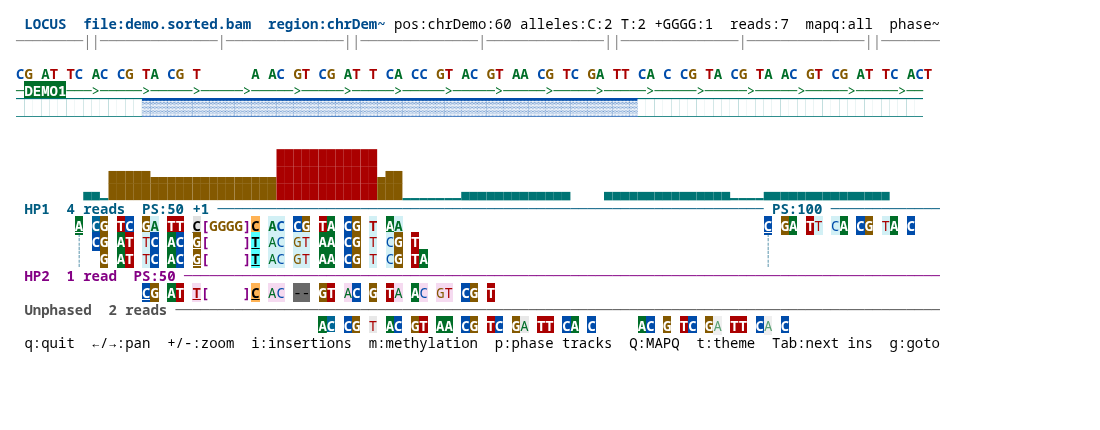
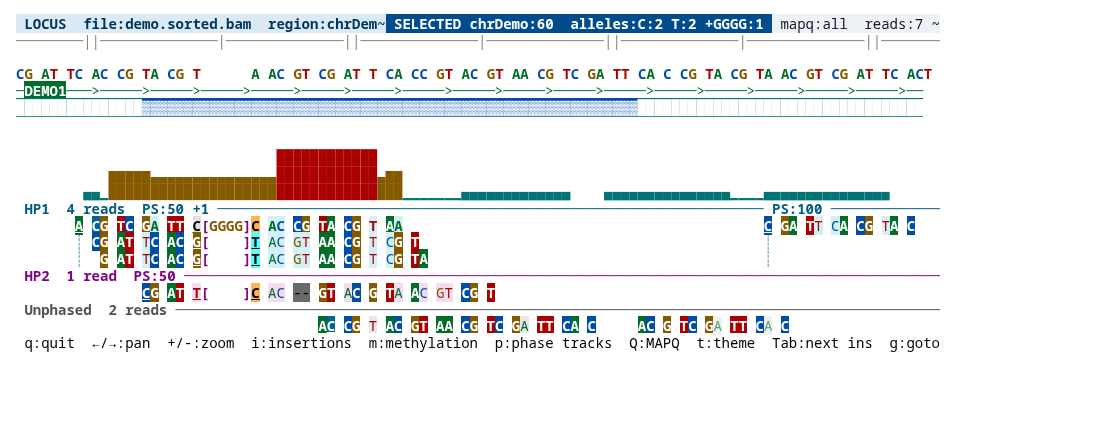
Improve top bar contrast

Changed region(s): [[0.0, 0.0302, 0.8655, 0.0907]]

diff --git a/docs/captures/demo-dark-expanded-methylation.html b/docs/captures/demo-dark-expanded-methylation.html
@@ -8,7 +8,7 @@
 </head>
 <body>
 <pre>
-<span style="color:#008080;background-color:#808080;font-weight:700"> LOCUS  file:demo.sorted.bam  region:chrDem~</span><span style="color:#ffffff;background-color:#808080"> pos:chrDemo:60 alleles:C:2 T:2 +GGGG:1  reads:7  mapq:all  phase~</span>
+<span style="color:#ffffff;background-color:#004452;font-weight:700"> LOCUS  file:demo.sorted.bam  region:chrDem~</span><span style="color:#000000;background-color:#008080;font-weight:700"> SELECTED chrDemo:60  alleles:C:2 T:2 +GGGG:1 </span><span style="color:#ffffff;background-color:#000000"> mapq:all  reads:7 ~</span>
 <span style="color:#808080">────────||──────────────|──────────────||──────────────|──────────────||──────────────|──────────────||───────</span>
         <span style="color:#ffffff">50</span><span style="">              </span><span style="color:#ffffff">60</span><span style="">             </span><span style="color:#ffffff">70</span><span style="">              </span><span style="color:#ffffff">80</span><span style="">             </span><span style="color:#ffffff">90</span><span style="">              </span><span style="color:#ffffff">100</span><span style="">            </span><span style="color:#ffffff">110</span>
 <span style="color:#000080;font-weight:700">C</span><span style="color:#808000;font-weight:700">G</span><span style=""> </span><span style="color:#008000;font-weight:700">A</span><span style="color:#800000;font-weight:700">T</span><span style=""> </span><span style="color:#800000;font-weight:700">T</span><span style="color:#000080;font-weight:700">C</span><span style=""> </span><span style="color:#008000;font-weight:700">A</span><span style="color:#000080;font-weight:700">C</span><span style=""> </span><span style="color:#000080;font-weight:700">C</span><span style="color:#808000;font-weight:700">G</span><span style=""> </span><span style="color:#800000;font-weight:700">T</span><span style="color:#008000;font-weight:700">A</span><span style=""> </span><span style="color:#000080;font-weight:700">C</span><span style="color:#808000;font-weight:700">G</span><span style=""> </span><span style="color:#800000;font-weight:700">T</span><span style="">      </span><span style="color:#008000;font-weight:700">A</span><span style=""> </span><span style="color:#008000;font-weight:700">A</span><span style="color:#000080;font-weight:700">C</span><span style=""> </span><span style="color:#808000;font-weight:700">G</span><span style="color:#800000;font-weight:700">T</span><span style=""> </span><span style="color:#000080;font-weight:700">C</span><span style="color:#808000;font-weight:700">G</span><span style=""> </span><span style="color:#008000;font-weight:700">A</span><span style="color:#800000;font-weight:700">T</span><span style=""> </span><span style="color:#800000;font-weight:700">T</span><span style=""> </span><span style="color:#000080;font-weight:700">C</span><span style="color:#008000;font-weight:700">A</span><span style=""> </span><span style="color:#000080;font-weight:700">CC</span><span style=""> </span><span style="color:#808000;font-weight:700">G</span><span style="color:#800000;font-weight:700">T</span><span style=""> </span><span style="color:#008000;font-weight:700">A</span><span style="color:#000080;font-weight:700">C</span><span style=""> </span><span style="color:#808000;font-weight:700">G</span><span style="color:#800000;font-weight:700">T</span><span style=""> </span><span style="color:#008000;font-weight:700">AA</span><span style=""> </span><span style="color:#000080;font-weight:700">C</span><span style="color:#808000;font-weight:700">G</span><span style=""> </span><span style="color:#800000;font-weight:700">T</span><span style="color:#000080;font-weight:700">C</span><span style=""> </span><span style="color:#808000;font-weight:700">G</span><span style="color:#008000;font-weight:700">A</span><span style=""> </span><span style="color:#800000;font-weight:700">TT</span><span style=""> </span><span style="color:#000080;font-weight:700">C</span><span style="color:#008000;font-weight:700">A</span><span style=""> </span><span style="color:#000080;font-weight:700">C</span><span style=""> </span><span style="color:#000080;font-weight:700">C</span><span style="color:#808000;font-weight:700">G</span><span style=""> </span><span style="color:#800000;font-weight:700">T</span><span style="color:#008000;font-weight:700">A</span><span style=""> </span><span style="color:#000080;font-weight:700">C</span><span style="color:#808000;font-weight:700">G</span><span style=""> </span><span style="color:#800000;font-weight:700">T</span><span style="color:#008000;font-weight:700">A</span><span style=""> </span><span style="color:#008000;font-weight:700">A</span><span style="color:#000080;font-weight:700">C</span><span style=""> </span><span style="color:#808000;font-weight:700">G</span><span style="color:#800000;font-weight:700">T</span><span style=""> </span><span style="color:#000080;font-weight:700">C</span><span style="color:#808000;font-weight:700">G</span><span style=""> </span><span style="color:#008000;font-weight:700">A</span><span style="color:#800000;font-weight:700">T</span><span style=""> </span><span style="color:#800000;font-weight:700">T</span><span style="color:#000080;font-weight:700">C</span><span style=""> </span><span style="color:#008000;font-weight:700">A</span><span style="color:#000080;font-weight:700">C</span><span style="color:#800000;font-weight:700">T</span>

diff --git a/docs/captures/demo-expanded-methylation.html b/docs/captures/demo-expanded-methylation.html
@@ -8,7 +8,7 @@
 </head>
 <body>
 <pre>
-<span style="color:#008080;background-color:#808080;font-weight:700"> LOCUS  file:demo.sorted.bam  region:chrDem~</span><span style="color:#ffffff;background-color:#808080"> pos:chrDemo:60 alleles:C:2 T:2 +GGGG:1  reads:7  mapq:all  phase~</span>
+<span style="color:#ffffff;background-color:#004452;font-weight:700"> LOCUS  file:demo.sorted.bam  region:chrDem~</span><span style="color:#000000;background-color:#008080;font-weight:700"> SELECTED chrDemo:60  alleles:C:2 T:2 +GGGG:1 </span><span style="color:#ffffff;background-color:#000000"> mapq:all  reads:7 ~</span>
 <span style="color:#808080">────────||──────────────|──────────────||──────────────|──────────────||──────────────|──────────────||───────</span>
         <span style="color:#ffffff">50</span><span style="">              </span><span style="color:#ffffff">60</span><span style="">             </span><span style="color:#ffffff">70</span><span style="">              </span><span style="color:#ffffff">80</span><span style="">             </span><span style="color:#ffffff">90</span><span style="">              </span><span style="color:#ffffff">100</span><span style="">            </span><span style="color:#ffffff">110</span>
 <span style="color:#000080;font-weight:700">C</span><span style="color:#808000;font-weight:700">G</span><span style=""> </span><span style="color:#008000;font-weight:700">A</span><span style="color:#800000;font-weight:700">T</span><span style=""> </span><span style="color:#800000;font-weight:700">T</span><span style="color:#000080;font-weight:700">C</span><span style=""> </span><span style="color:#008000;font-weight:700">A</span><span style="color:#000080;font-weight:700">C</span><span style=""> </span><span style="color:#000080;font-weight:700">C</span><span style="color:#808000;font-weight:700">G</span><span style=""> </span><span style="color:#800000;font-weight:700">T</span><span style="color:#008000;font-weight:700">A</span><span style=""> </span><span style="color:#000080;font-weight:700">C</span><span style="color:#808000;font-weight:700">G</span><span style=""> </span><span style="color:#800000;font-weight:700">T</span><span style="">      </span><span style="color:#008000;font-weight:700">A</span><span style=""> </span><span style="color:#008000;font-weight:700">A</span><span style="color:#000080;font-weight:700">C</span><span style=""> </span><span style="color:#808000;font-weight:700">G</span><span style="color:#800000;font-weight:700">T</span><span style=""> </span><span style="color:#000080;font-weight:700">C</span><span style="color:#808000;font-weight:700">G</span><span style=""> </span><span style="color:#008000;font-weight:700">A</span><span style="color:#800000;font-weight:700">T</span><span style=""> </span><span style="color:#800000;font-weight:700">T</span><span style=""> </span><span style="color:#000080;font-weight:700">C</span><span style="color:#008000;font-weight:700">A</span><span style=""> </span><span style="color:#000080;font-weight:700">CC</span><span style=""> </span><span style="color:#808000;font-weight:700">G</span><span style="color:#800000;font-weight:700">T</span><span style=""> </span><span style="color:#008000;font-weight:700">A</span><span style="color:#000080;font-weight:700">C</span><span style=""> </span><span style="color:#808000;font-weight:700">G</span><span style="color:#800000;font-weight:700">T</span><span style=""> </span><span style="color:#008000;font-weight:700">AA</span><span style=""> </span><span style="color:#000080;font-weight:700">C</span><span style="color:#808000;font-weight:700">G</span><span style=""> </span><span style="color:#800000;font-weight:700">T</span><span style="color:#000080;font-weight:700">C</span><span style=""> </span><span style="color:#808000;font-weight:700">G</span><span style="color:#008000;font-weight:700">A</span><span style=""> </span><span style="color:#800000;font-weight:700">TT</span><span style=""> </span><span style="color:#000080;font-weight:700">C</span><span style="color:#008000;font-weight:700">A</span><span style=""> </span><span style="color:#000080;font-weight:700">C</span><span style=""> </span><span style="color:#000080;font-weight:700">C</span><span style="color:#808000;font-weight:700">G</span><span style=""> </span><span style="color:#800000;font-weight:700">T</span><span style="color:#008000;font-weight:700">A</span><span style=""> </span><span style="color:#000080;font-weight:700">C</span><span style="color:#808000;font-weight:700">G</span><span style=""> </span><span style="color:#800000;font-weight:700">T</span><span style="color:#008000;font-weight:700">A</span><span style=""> </span><span style="color:#008000;font-weight:700">A</span><span style="color:#000080;font-weight:700">C</span><span style=""> </span><span style="color:#808000;font-weight:700">G</span><span style="color:#800000;font-weight:700">T</span><span style=""> </span><span style="color:#000080;font-weight:700">C</span><span style="color:#808000;font-weight:700">G</span><span style=""> </span><span style="color:#008000;font-weight:700">A</span><span style="color:#800000;font-weight:700">T</span><span style=""> </span><span style="color:#800000;font-weight:700">T</span><span style="color:#000080;font-weight:700">C</span><span style=""> </span><span style="color:#008000;font-weight:700">A</span><span style="color:#000080;font-weight:700">C</span><span style="color:#800000;font-weight:700">T</span>

diff --git a/docs/captures/demo-light-expanded-methylation.html b/docs/captures/demo-light-expanded-methylation.html
@@ -8,7 +8,7 @@
 </head>
 <body>
 <pre>
-<span style="color:#004c8c;background-color:#ffffff;font-weight:700"> LOCUS  file:demo.sorted.bam  region:chrDem~</span><span style="color:#000000;background-color:#ffffff"> pos:chrDemo:60 alleles:C:2 T:2 +GGGG:1  reads:7  mapq:all  phase~</span>
+<span style="color:#00365e;background-color:#dceaf6;font-weight:700"> LOCUS  file:demo.sorted.bam  region:chrDem~</span><span style="color:#ffffff;background-color:#004c8c;font-weight:700"> SELECTED chrDemo:60  alleles:C:2 T:2 +GGGG:1 </span><span style="color:#111827;background-color:#eef2f6"> mapq:all  reads:7 ~</span>
 <span style="color:#808080">────────||──────────────|──────────────||──────────────|──────────────||──────────────|──────────────||───────</span>
         <span style="color:#ffffff">50</span><span style="">              </span><span style="color:#ffffff">60</span><span style="">             </span><span style="color:#ffffff">70</span><span style="">              </span><span style="color:#ffffff">80</span><span style="">             </span><span style="color:#ffffff">90</span><span style="">              </span><span style="color:#ffffff">100</span><span style="">            </span><span style="color:#ffffff">110</span>
 <span style="color:#004caa;font-weight:700">C</span><span style="color:#845900;font-weight:700">G</span><span style=""> </span><span style="color:#006e28;font-weight:700">A</span><span style="color:#aa0000;font-weight:700">T</span><span style=""> </span><span style="color:#aa0000;font-weight:700">T</span><span style="color:#004caa;font-weight:700">C</span><span style=""> </span><span style="color:#006e28;font-weight:700">A</span><span style="color:#004caa;font-weight:700">C</span><span style=""> </span><span style="color:#004caa;font-weight:700">C</span><span style="color:#845900;font-weight:700">G</span><span style=""> </span><span style="color:#aa0000;font-weight:700">T</span><span style="color:#006e28;font-weight:700">A</span><span style=""> </span><span style="color:#004caa;font-weight:700">C</span><span style="color:#845900;font-weight:700">G</span><span style=""> </span><span style="color:#aa0000;font-weight:700">T</span><span style="">      </span><span style="color:#006e28;font-weight:700">A</span><span style=""> </span><span style="color:#006e28;font-weight:700">A</span><span style="color:#004caa;font-weight:700">C</span><span style=""> </span><span style="color:#845900;font-weight:700">G</span><span style="color:#aa0000;font-weight:700">T</span><span style=""> </span><span style="color:#004caa;font-weight:700">C</span><span style="color:#845900;font-weight:700">G</span><span style=""> </span><span style="color:#006e28;font-weight:700">A</span><span style="color:#aa0000;font-weight:700">T</span><span style=""> </span><span style="color:#aa0000;font-weight:700">T</span><span style=""> </span><span style="color:#004caa;font-weight:700">C</span><span style="color:#006e28;font-weight:700">A</span><span style=""> </span><span style="color:#004caa;font-weight:700">CC</span><span style=""> </span><span style="color:#845900;font-weight:700">G</span><span style="color:#aa0000;font-weight:700">T</span><span style=""> </span><span style="color:#006e28;font-weight:700">A</span><span style="color:#004caa;font-weight:700">C</span><span style=""> </span><span style="color:#845900;font-weight:700">G</span><span style="color:#aa0000;font-weight:700">T</span><span style=""> </span><span style="color:#006e28;font-weight:700">AA</span><span style=""> </span><span style="color:#004caa;font-weight:700">C</span><span style="color:#845900;font-weight:700">G</span><span style=""> </span><span style="color:#aa0000;font-weight:700">T</span><span style="color:#004caa;font-weight:700">C</span><span style=""> </span><span style="color:#845900;font-weight:700">G</span><span style="color:#006e28;font-weight:700">A</span><span style=""> </span><span style="color:#aa0000;font-weight:700">TT</span><span style=""> </span><span style="color:#004caa;font-weight:700">C</span><span style="color:#006e28;font-weight:700">A</span><span style=""> </span><span style="color:#004caa;font-weight:700">C</span><span style=""> </span><span style="color:#004caa;font-weight:700">C</span><span style="color:#845900;font-weight:700">G</span><span style=""> </span><span style="color:#aa0000;font-weight:700">T</span><span style="color:#006e28;font-weight:700">A</span><span style=""> </span><span style="color:#004caa;font-weight:700">C</span><span style="color:#845900;font-weight:700">G</span><span style=""> </span><span style="color:#aa0000;font-weight:700">T</span><span style="color:#006e28;font-weight:700">A</span><span style=""> </span><span style="color:#006e28;font-weight:700">A</span><span style="color:#004caa;font-weight:700">C</span><span style=""> </span><span style="color:#845900;font-weight:700">G</span><span style="color:#aa0000;font-weight:700">T</span><span style=""> </span><span style="color:#004caa;font-weight:700">C</span><span style="color:#845900;font-weight:700">G</span><span style=""> </span><span style="color:#006e28;font-weight:700">A</span><span style="color:#aa0000;font-weight:700">T</span><span style=""> </span><span style="color:#aa0000;font-weight:700">T</span><span style="color:#004caa;font-weight:700">C</span><span style=""> </span><span style="color:#006e28;font-weight:700">A</span><span style="color:#004caa;font-weight:700">C</span><span style="color:#aa0000;font-weight:700">T</span>

diff --git a/src/ui.rs b/src/ui.rs
@@ -124,20 +124,19 @@ fn draw_top_bar(frame: &mut Frame, app: &App, area: Rect) {
     let phasing_mode = phasing_mode_label(app.show_phasing);
     let theme_mode = theme_mode_label(app.theme);
     let mapq_filter = mapq_filter_label(app.min_mapq);
-    let selected_position = selected_position_label(app.current_contig(), app.selected_ref_pos)
-        .map(|position| {
+    let selected_info =
+        selected_position_label(app.current_contig(), app.selected_ref_pos).map(|position| {
             let tally = app
                 .selected_allele_tally
                 .as_ref()
                 .map(selected_allele_tally_label)
                 .unwrap_or_else(|| "alleles:none".to_string());
-            format!(" pos:{position} {tally}")
-        })
-        .unwrap_or_default();
+            format!(" SELECTED {position}  {tally} ")
+        });
     let metrics = format!(
-        "{selected_position}  reads:{}  {}  {}  scale:{:.1} bp/col  {}  {}  {} ",
-        read_count,
+        " {}  reads:{}  {}  scale:{:.1} bp/col  {}  {}  {} ",
         mapq_filter,
+        read_count,
         phasing_mode,
         bp_per_col,
         insertion_mode,
@@ -145,21 +144,43 @@ fn draw_top_bar(frame: &mut Frame, app: &App, area: Rect) {
         theme_mode
     );
     let status = app.status_msg.as_ref().map(|msg| format!(" status:{msg} "));
-    let (identity, metrics, status) = fit_top_bar(&identity, &metrics, status.as_deref(), width);
+    let (identity, selected_info, metrics, status) = fit_top_bar(
+        &identity,
+        selected_info.as_deref(),
+        &metrics,
+        status.as_deref(),
+        width,
+    );
 
-    let used = identity.len() + metrics.len() + status.as_ref().map_or(0, |s| s.len());
+    let used = identity.len()
+        + selected_info.as_ref().map_or(0, String::len)
+        + metrics.len()
+        + status.as_ref().map_or(0, String::len);
     let pad_len = width.saturating_sub(used);
 
-    let mut spans = vec![
-        Span::styled(
-            identity,
+    let mut spans = vec![Span::styled(
+        identity,
+        Style::default()
+            .fg(app.theme.top_bar_identity_fg())
+            .bg(app.theme.top_bar_identity_bg())
+            .add_modifier(Modifier::BOLD),
+    )];
+
+    if let Some(selected_info) = selected_info {
+        spans.push(Span::styled(
+            selected_info,
             Style::default()
-                .fg(app.theme.brand_fg())
+                .fg(app.theme.selected_info_fg())
+                .bg(app.theme.selected_info_bg())
                 .add_modifier(Modifier::BOLD),
-        ),
-        Span::raw(" ".repeat(pad_len)),
-        Span::styled(metrics, Style::default().fg(app.theme.chrome_fg())),
-    ];
+        ));
+    }
+
+    spans.push(Span::raw(" ".repeat(pad_len)));
+    spans.push(Span::styled(
+        metrics,
+        Style::default().fg(app.theme.top_bar_fg()),
+    ));
 
     if let Some(status) = status {
         spans.push(Span::styled(
@@ -169,7 +190,7 @@ fn draw_top_bar(frame: &mut Frame, app: &App, area: Rect) {
     }
 
     frame.render_widget(
-        Paragraph::new(Line::from(spans)).style(Style::default().bg(app.theme.chrome_bg())),
+        Paragraph::new(Line::from(spans)).style(Style::default().bg(app.theme.top_bar_bg())),
         area,
     );
 }
@@ -256,23 +277,40 @@ fn truncate_to_width(text: &str, width: usize) -> String {
 
 fn fit_top_bar(
     identity: &str,
+    selected_info: Option<&str>,
     metrics: &str,
     status: Option<&str>,
     width: usize,
-) -> (String, String, Option<String>) {
+) -> (String, Option<String>, String, Option<String>) {
     if width == 0 {
-        return (String::new(), String::new(), status.map(|_| String::new()));
+        return (
+            String::new(),
+            selected_info.map(|_| String::new()),
+            String::new(),
+            status.map(|_| String::new()),
+        );
     }
 
     let identity_budget = if width < 40 { width / 2 } else { width * 2 / 5 };
     let identity = truncate_to_width(identity, identity_budget.max(1).min(width));
     let remaining = width.saturating_sub(identity.len());
+
+    if let Some(selected_info) = selected_info {
+        let metrics_reserve = (remaining / 5).min(metrics.len());
+        let selected_info = truncate_to_width(selected_info, remaining - metrics_reserve);
+        let metrics = truncate_to_width(
+            metrics,
+            width.saturating_sub(identity.len() + selected_info.len()),
+        );
+        return (identity, Some(selected_info), metrics, None);
+    }
+
     let status_reserve = status.map_or(0, |text| (remaining / 4).min(text.len()));
     let metrics = truncate_to_width(metrics, remaining.saturating_sub(status_reserve));
     let status = status
         .map(|text| truncate_to_width(text, width.saturating_sub(identity.len() + metrics.len())));
 
-    (identity, metrics, status)
+    (identity, None, metrics, status)
 }
 
 fn format_region_display(app: &App) -> String {
@@ -1018,13 +1056,38 @@ mod tests {
         let metrics = " reads:3  mapq>=30  phase:tracks  scale:2.0 bp/col  ins:collapsed  meth:off  theme:dark ";
         let status = " status:minimum MAPQ set to 30 ";
 
-        let (identity, metrics, status) = fit_top_bar(identity, metrics, Some(status), 80);
+        let (identity, selected_info, metrics, status) =
+            fit_top_bar(identity, None, metrics, Some(status), 80);
         let status = status.expect("status remains present");
 
         assert!(identity.starts_with(" LOCUS"));
+        assert!(selected_info.is_none());
         assert!(metrics.contains("mapq>=30"));
         assert!(metrics.contains("phase:tracks"));
         assert!(identity.len() + metrics.len() + status.len() <= 80);
+    }
+
+    #[test]
+    fn top_bar_prioritizes_selected_information_and_mapq() {
+        let identity = " LOCUS  file:demo.sorted.bam  region:chrDemo:45-115 ";
+        let selected_info = " SELECTED chrDemo:60  alleles:C:2 T:2 +GGGG:1 ";
+        let metrics = " mapq:all  reads:7  phase:tracks  scale:0.7 bp/col ";
+
+        let (identity, selected_info, metrics, status) = fit_top_bar(
+            identity,
+            Some(selected_info),
+            metrics,
+            Some(" status:ignored "),
+            110,
+        );
+        let selected_info = selected_info.expect("selection remains visible");
+
+        assert!(identity.starts_with(" LOCUS"));
+        assert!(selected_info.contains("SELECTED chrDemo:60"));
+        assert!(selected_info.contains("+GGGG:1"));
+        assert!(metrics.contains("mapq:all"));
+        assert!(status.is_none());
+        assert!(identity.len() + selected_info.len() + metrics.len() <= 110);
     }
 
     #[test]

diff --git a/src/theme.rs b/src/theme.rs
@@ -36,6 +36,50 @@ impl Theme {
         }
     }
 
+    /// Background for the persistent top information bar.
+    pub fn top_bar_bg(self) -> Color {
+        match self {
+            Self::Dark => Color::Black,
+            Self::Light => Color::Rgb(238, 242, 246),
+        }
+    }
+
+    pub fn top_bar_fg(self) -> Color {
+        match self {
+            Self::Dark => Color::White,
+            Self::Light => Color::Rgb(17, 24, 39),
+        }
+    }
+
+    pub fn top_bar_identity_bg(self) -> Color {
+        match self {
+            Self::Dark => Color::Rgb(0, 68, 82),
+            Self::Light => Color::Rgb(220, 234, 246),
+        }
+    }
+
+    pub fn top_bar_identity_fg(self) -> Color {
+        match self {
+            Self::Dark => Color::White,
+            Self::Light => Color::Rgb(0, 54, 94),
+        }
+    }
+
+    /// High-contrast pane for a clicked genomic position and its allele tally.
+    pub fn selected_info_bg(self) -> Color {
+        match self {
+            Self::Dark => Color::Cyan,
+            Self::Light => Color::Rgb(0, 76, 140),
+        }
+    }
+
+    pub fn selected_info_fg(self) -> Color {
+        match self {
+            Self::Dark => Color::Black,
+            Self::Light => Color::White,
+        }
+    }
+
     pub fn brand_fg(self) -> Color {
         match self {
             Self::Dark => Color::Cyan,
@@ -231,6 +275,20 @@ impl Theme {
         match self {
             Self::Dark => "#ddd",
             Self::Light => "#111111",
+        }
+    }
+}
+
+#[cfg(test)]
+mod tests {
+    use super::*;
+
+    #[test]
+    fn top_bar_palettes_keep_selected_information_distinct() {
+        for theme in [Theme::Dark, Theme::Light] {
+            assert_ne!(theme.top_bar_bg(), theme.selected_info_bg());
+            assert_ne!(theme.selected_info_bg(), theme.selected_info_fg());
+            assert_ne!(theme.top_bar_identity_bg(), theme.top_bar_identity_fg());
         }
     }
 }
